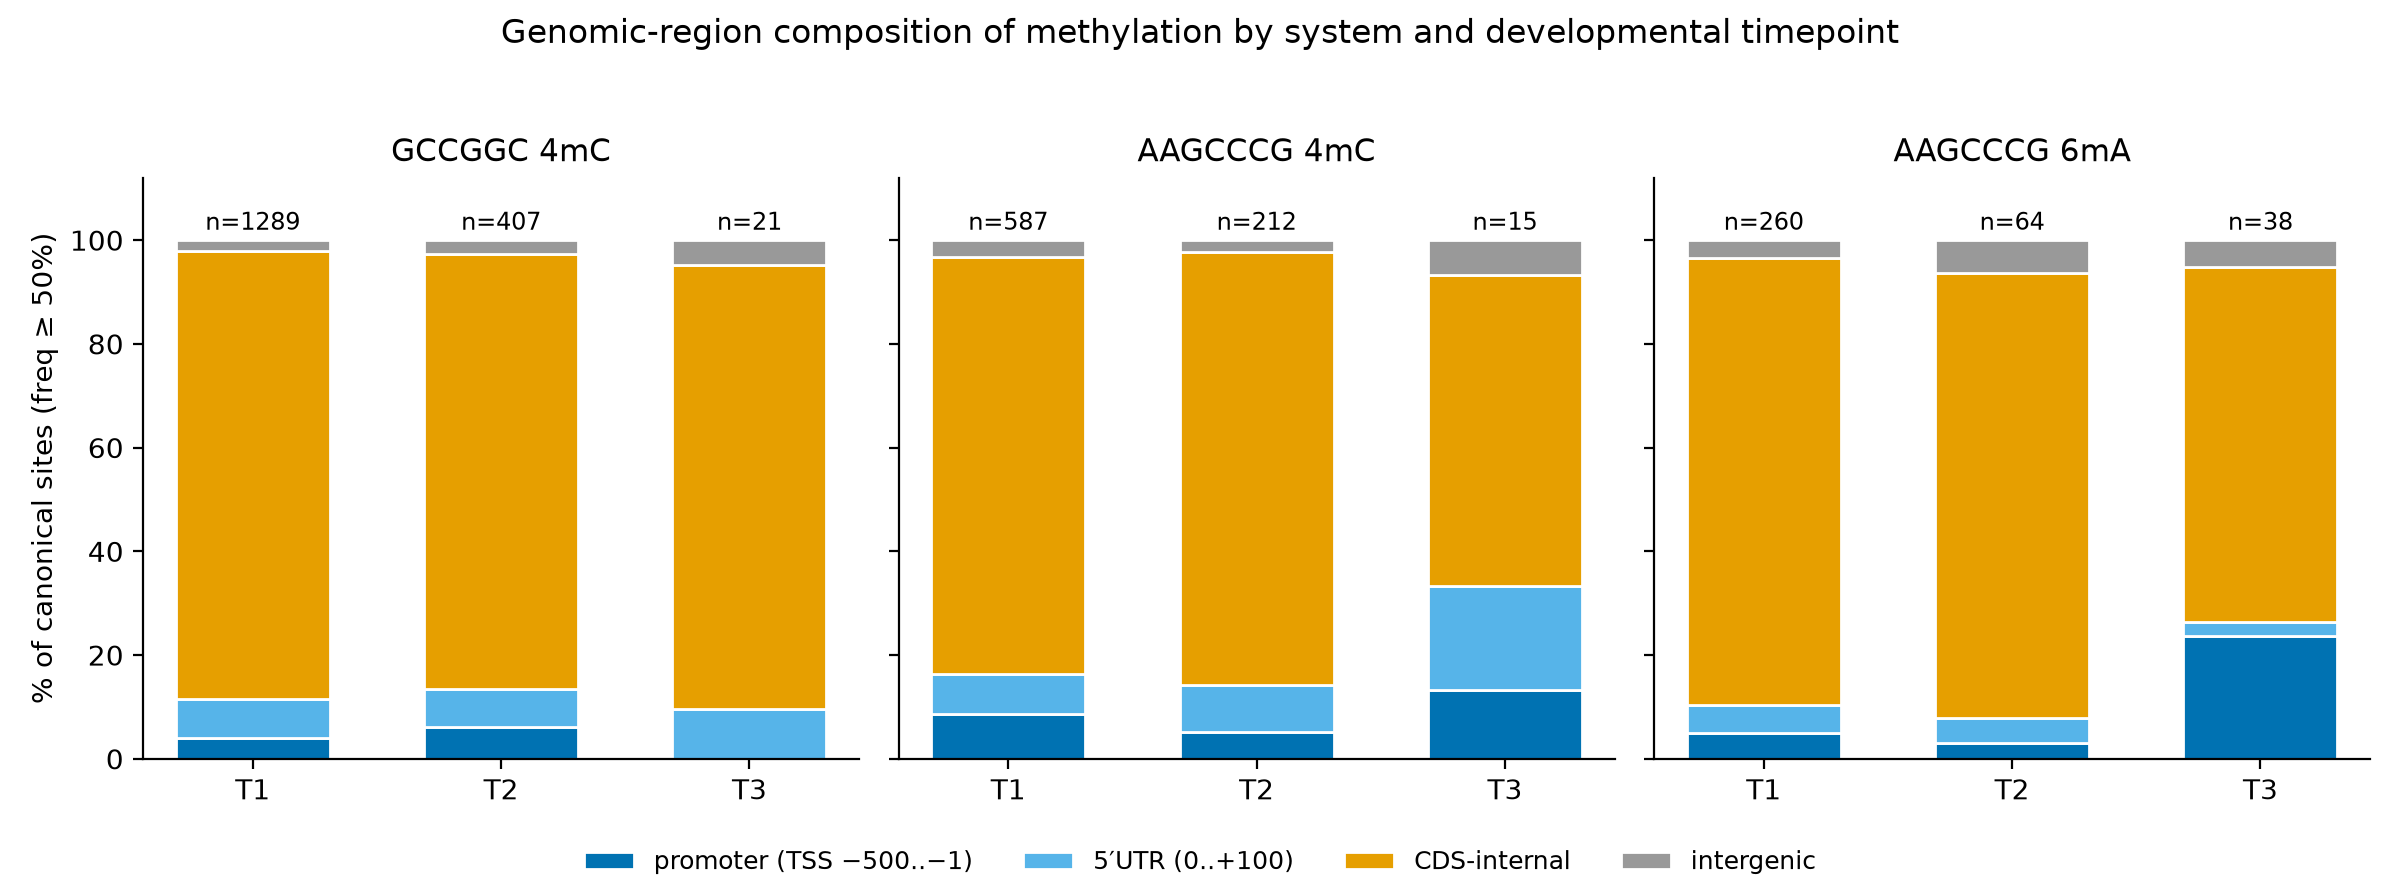
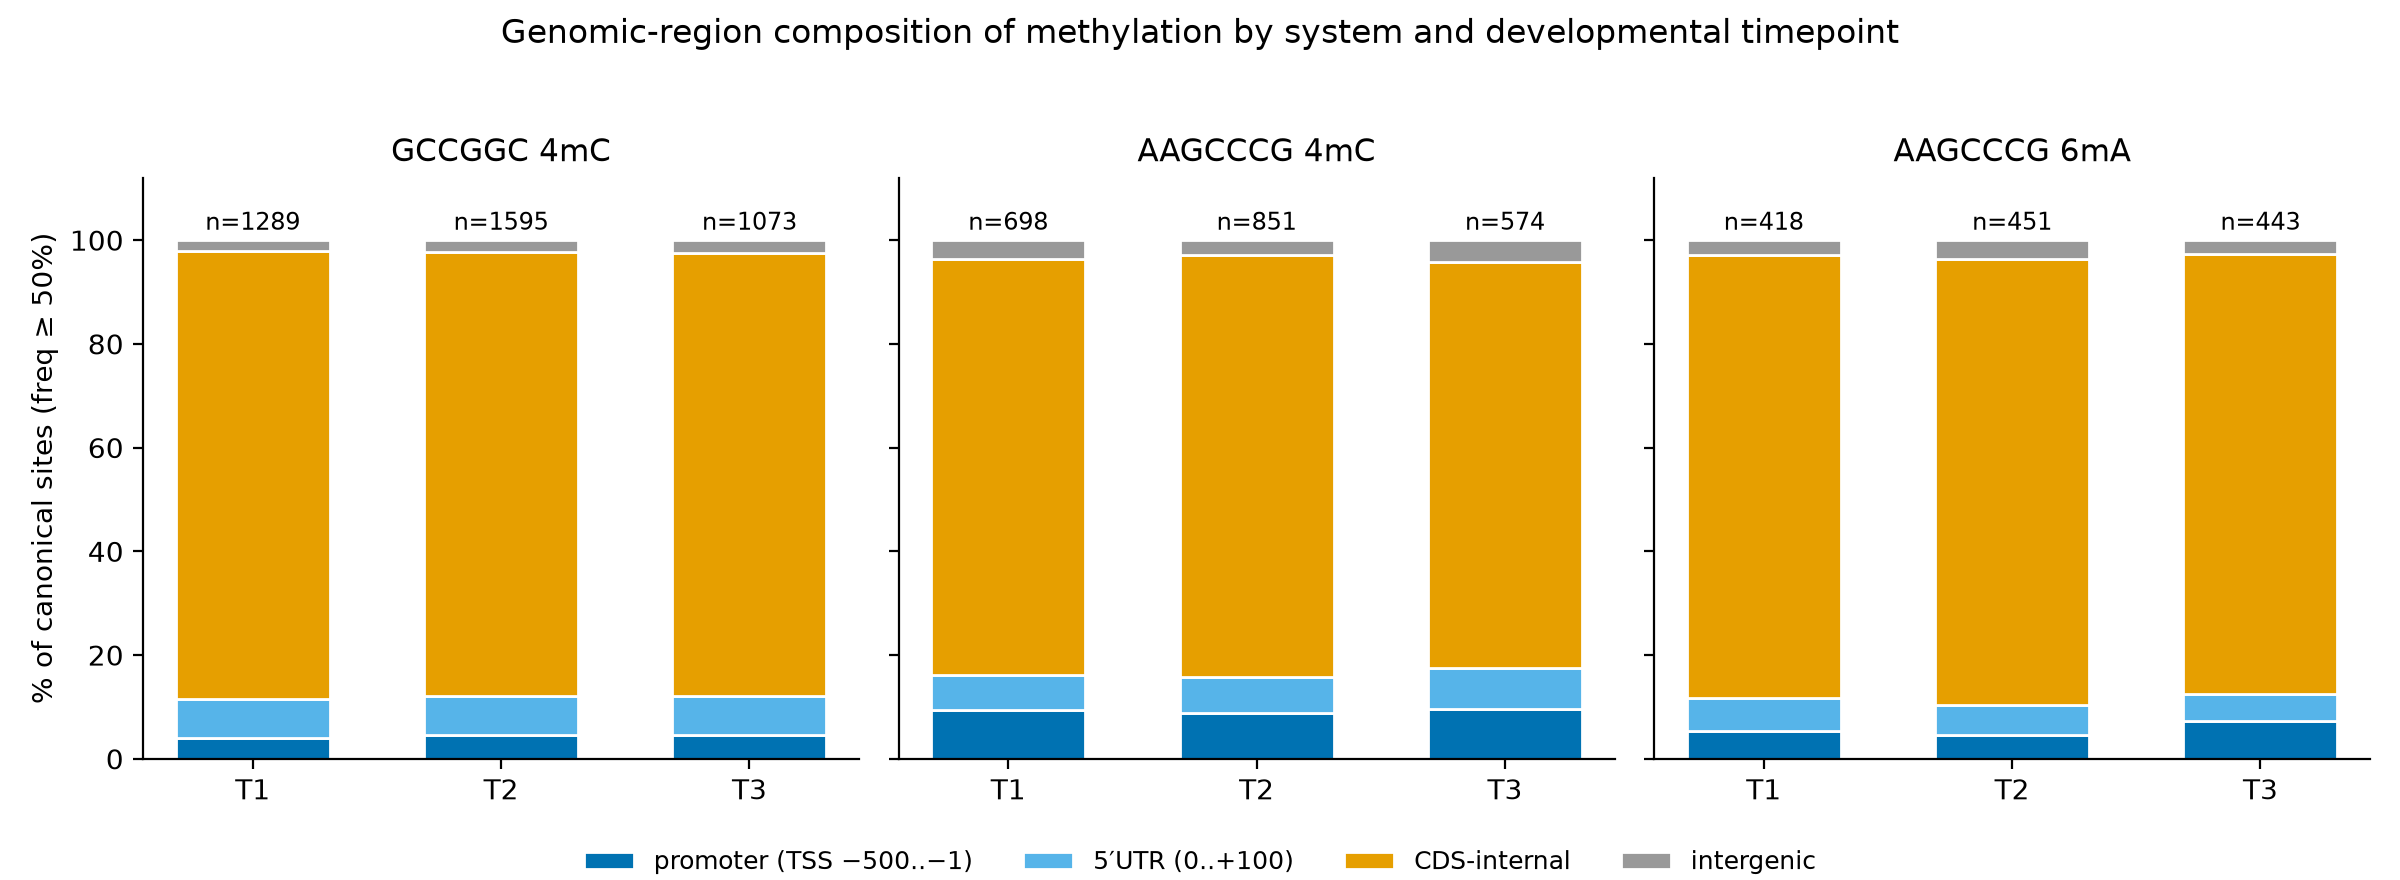
figures(79, BLOCKER-0): S14 region composition from canonical file (1,289/1,595/1,073; 698/851/574; 418/451/443)

diff --git a/11_epigenome_integration/analysis/79_C4_region_by_timepoint/scripts/c4_region_by_timepoint.py b/11_epigenome_integration/analysis/79_C4_region_by_timepoint/scripts/c4_region_by_timepoint.py
@@ -2,9 +2,13 @@
 """C4: genomic-region composition of methylation sites by modification system
 and developmental timepoint (T1/T2/T3).
 
-Driven by the CANONICAL census (depth>=10, freq>=50%) so per-system per-TP
-counts match every other figure (GCCGGC 4mC 1289/407/21; AAGCCCG-4mC 587/212/15;
-AAGCCCG-6mA 260/64/38). Region categories use the SAME first-match logic as the
+Driven by the CANONICAL per-timepoint file 01_integration/high_confidence_sites_weighted.csv
+(depth>=10, 3 reps, weighted freq>=50%) via 90_/canonical_sites.py, so per-system
+per-TP counts match every other figure: GCCGGC 4mC 1,289/1,595/1,073; AAGCCCG-4mC (C4)
+698/851/574; AAGCCCG-6mA (A0/A1) 418/451/443.
+2026-09-21 (BLOCKER-0): the previous source, 23_expanded_motif_search/*_final_census.csv,
+is position-deduplicated across timepoints (first-appearance), which produced the
+retracted 1,289/407/21 series and the 'T3 strata small (n = 15-38)' caveat. Region categories use the SAME first-match logic as the
 SuppFig 9 classifier (62_GO_KEGG_enrichment/stratified_position_enrichment.py):
 promoter = TSS-500..-1; 5'UTR = in-gene 0..+100; CDS_internal = rest of gene;
 else intergenic.
@@ -20,8 +24,12 @@ BASE = Path("/Users/okaban/bioinfo/rna-seq/11_epigenome_integration/analysis")
 TSS = pd.read_csv(BASE / "18_tss_analyses/comprehensive_tss_table.csv")[
     ["gene_id", "chrom", "start", "end", "strand", "tss"]].rename(
     columns={"start": "gstart", "end": "gend"})
-C4MC = pd.read_csv(BASE / "23_expanded_motif_search/4mC_final_census.csv")
-C6MA = pd.read_csv(BASE / "23_expanded_motif_search/6mA_final_census.csv")
+import importlib.util as _ilu
+_spec = _ilu.spec_from_file_location("canonical_sites", BASE / "90_per_timepoint_census_audit/canonical_sites.py")
+_cs = _ilu.module_from_spec(_spec); _spec.loader.exec_module(_cs)
+_HC = _cs.load_canonical()          # columns: position, strand, mod, timepoint, frequency, motif
+C4MC = _HC[_HC["mod"] == "4mC"].rename(columns={"motif": "final_motif"})
+C6MA = _HC[_HC["mod"] == "6mA"].rename(columns={"motif": "final_motif"})
 
 CATS = ["promoter", "5UTR_approx", "CDS_internal", "intergenic"]
 
@@ -66,7 +74,7 @@ def classify(df):
 # 2026-09-13 (FIG-09): locked notation is 4mC (not m4C); panel titles + table
 # 'system' column follow it.
 SYSTEMS = [
-    ("GCCGGC 4mC", C4MC, "TGGCCGGC"),
+    ("GCCGGC 4mC", C4MC, "GCCGGC"),
     ("AAGCCCG 4mC", C4MC, "AAGCCCG"),
     ("AAGCCCG 6mA", C6MA, "AAGCCCG"),
 ]
